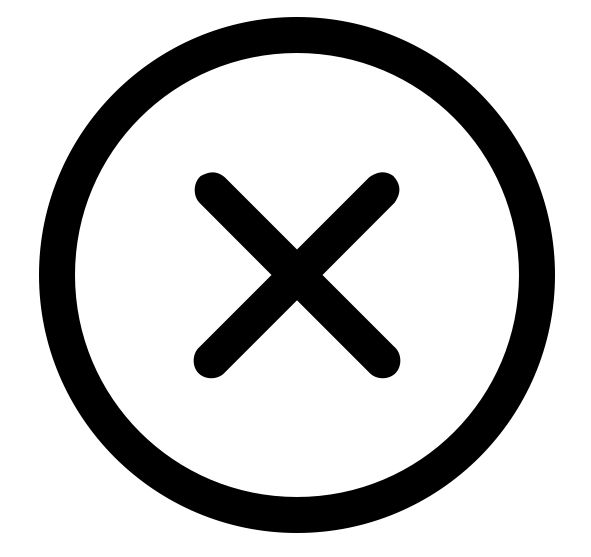
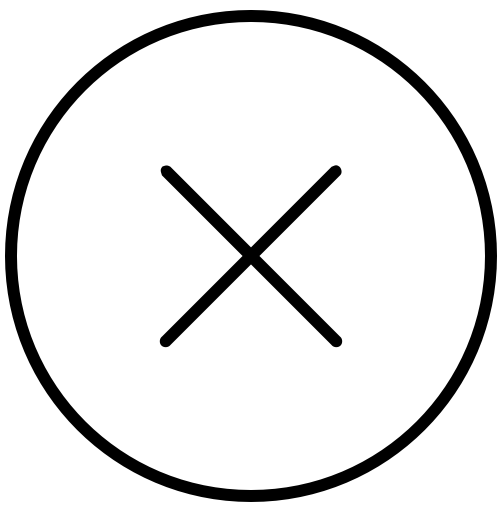
Completed more styling on MovieInfo page.  Started styling commments.  Removed console logs and old comments.

Changed region(s): [[0.0, 0.0, 1.0, 1.0], [0.2982, 0.2947, 0.6859, 0.6778]]

diff --git a/dev/scripts/MovieInfo.js b/dev/scripts/MovieInfo.js
@@ -52,31 +52,40 @@ class MovieInfo extends React.Component {
                         <img src={`https://image.tmdb.org/t/p/w400/${this.state.poster_path}`} alt="poster"/>
                     </div>
                     <div className="movieInfoData">
-                        <h2>Title: {this.state.title}</h2>
-                        <h2>Release Date: {this.state.release_date}</h2>
+                        <h2>{this.state.title}</h2>
+                        <h4>Release Date: {this.state.release_date}</h4>
                         <div className="clearfix">
-                            <Link to={{
-                                pathname: '/Recommend',
-                                state: { name: this.state.id, }}                  
-                                }
-                                className="mightAlsoLike">
-                            Might also like
-                            </Link>
-                            <Addbutton user={this.state.user} movie={this.state.title} />
+                            <div className="movieinfo__addbuttondiv clearfix">
+                                <Addbutton user={this.state.user} movie={this.state.title} />
+                            </div>
+                            <div className="movieinfo__descriptiondiv">
+                                <p>{this.state.overview}</p>
+                            </div>
+                                <p className="movieinfo__genrestitle">Genres:</p> 
+                                <ul className="movieinfo__genreslist">
+                                    {this.state.genres.map( (data, i) => 
+                                    {
+                                        return (<li className="genres" key={i}> {data.name} </li>)}
+                                    )}
+                                </ul>
+                            <div className="movieinfo__mightalsolikediv clearfix">
+                                <Link to={{
+                                    pathname: '/Recommend',
+                                    state: { name: this.state.id, }
+                                    }
+                                    }
+                                    className="mightAlsoLikeButton">
+                                    MORE LIKE THIS...
+                                </Link>
+                            </div>
                         </div>
                     </div>
                 </div>
-                <div>
-                    <p>Description: {this.state.overview}</p>
+                <div className="comments">
+                    <Comments 
+                    movieID={this.state.id}
+                    username={this.state.username} />
                 </div>
-
-                <p>Genres: {this.state.genres.map( (data, i) => 
-                    {
-                    return (<span className="genres" key={i}> {data.name} </span>)}
-                    )} </p>
-                <Comments 
-                movieID={this.state.id}
-                username={this.state.username} />
             </div>
         )
     }

diff --git a/dev/scripts/Comments.js b/dev/scripts/Comments.js
@@ -2,7 +2,6 @@ import React from 'react';
 import ReactDOM from 'react-dom';
 import Comment from './Comment';
 
-
 class Comments extends React.Component {
 
     constructor() {
@@ -22,7 +21,6 @@ class Comments extends React.Component {
         });
     }
 
-    // Use this as a listener, because component did mount will render before props are received
     componentWillReceiveProps(props) {
         const dbref = firebase.database().ref(`${props.movieID}/comments`);
 
@@ -30,7 +28,6 @@ class Comments extends React.Component {
 
             dbref.on('value', (snapshot) => {
                 const data = snapshot.val();
-                console.log(data);
                 const state = [];
                 for (let key in data) {
                     data[key].key = key;
@@ -45,7 +42,6 @@ class Comments extends React.Component {
 
     addComment(e) {
         e.preventDefault();
-        // This is making an array from whatever we pass it
         const aComment = {
             name: this.state.comment
         };
@@ -62,17 +58,16 @@ class Comments extends React.Component {
 
     render() {
         return (
-            <div>
+            <div className="comments__fullsection">
                 <div className="comments__form">
-                    <h1>Leave a comment</h1>
+                    <h2>What users are saying...</h2>
                     <form onSubmit={this.addComment}>
-                        <input type="text" id="comment" value={this.state.comment} onChange={this.handleChange} />
-                        <input type="submit" value="Add Comment"/>
+                        <input className="comment_field" type="text" id="comment" value={this.state.comment} onChange={this.handleChange} placeholder="Add public comment..."/>
+                        <input className="comment_button" type="submit" value="SUBMIT"/>
                     </form>
                 </div>
-                {/* <p>Testing ID: {this.props.movieID}</p> */}
                 <div className="comments__div">
-                    <h3>Previous Comments</h3>
+                    {/* <h3>Comments:</h3> */}
                     {this.state.comments.map((comment) => {
                         return (
                             <Comment data={comment} key={comment.key} remove={this.removeComment} aCommentIndex={comment.key} />

diff --git a/dev/styles/components/_movieInfo.scss b/dev/styles/components/_movieInfo.scss
@@ -1,11 +1,10 @@
-// .movieInfoContainer {
-//     padding: 5%;
-//     padding-top: 0;
-// }
-
 .movieInfo {
-    padding-top: 10px;
-    padding: 5%
+    padding-top: 90px;
+}
+
+.movieInfoPoster {
+    margin: 0 auto;
+    width: 80%;
 }
 
 .movieInfoPoster img {
@@ -13,40 +12,55 @@
     width: 100%
 }
 
-.movieInfoPoster {
-    width: 100%;
-}
-.movieInfoData {
-    width: 100%;
-}
-
-.mightAlsoLike,
-.addToListButton {
-    width: 50%;
-    float: left
-}
-
-.mightAlsoLike {
-    border: 2px solid #F72A75;
-    border-right: 1px solid #F72A75;
+.mightAlsoLikeButton {
+    background-color: $color1;
+    border: 2px solid $color5;
     border-radius: 4px;
-    padding-top: calc((39px - 22px) / 2);
-    padding-bottom: calc((39px - 22px)/ 2);
+    color: #FFF;
+    display: block;
+    float: left;
+    margin-top: 30px;
+    padding: 15px;
     text-align: center;
-    color: white;
-    background-color: #00053C;
+    width: 80%;
+}
+
+.mightAlsoLikeButton:hover {
+    color: $color5;
+}
+
+
+.movieInfoData {
+    margin: 0 auto;
+    width: 80%;
+}
+
+.movieinfo__genreslist {
+    margin: 0;
+    padding: 0;
+}
+
+.movieinfo__genrestitle {
+    font-weight: 500;
+    margin-top: 20px;
 }
 
 .genres {
-    background: black;
+    background: rgb(146, 146, 146);
+    border-radius: 2px;
     color: white;
+    margin: 5px;
     padding: 4px;
-    margin-right: 1px;
-    border-radius: 4px;
+    text-align: center;
+    width: 50%;
 }
 
+.comments {
+    margin: 0 auto;
+    padding-top: 30px;
+    width: 80%;
+}
 
-//this applies from 480px onwards
 @media (min-width: 480px) {
     .movieInfoPoster{
         width: 40%;

diff --git a/dev/scripts/Comment.js b/dev/scripts/Comment.js
@@ -7,7 +7,11 @@ class Comment extends React.Component {
         return (
             <div className="movieinfo__commentdiv">
                 <h5 className="movieinfo__commentdiv__comment">{this.props.data.name}</h5>
-                <button onClick={() => this.props.remove(this.props.aCommentIndex)}><div className="movieinfo__commentdiv__removebutton">x</div></button>
+                <button onClick={() => this.props.remove(this.props.aCommentIndex)}>
+                <div className="movieinfo__commentdiv__removebutton">
+                    <img src="/dev/images/icon_remove.png" alt="" />
+                </div>
+                </button>
             </div>
         );
     }

diff --git a/dev/styles/components/_searchResultsGenre.scss b/dev/styles/components/_searchResultsGenre.scss
@@ -2,11 +2,6 @@ body {
     background-color: $color6;
 }
 
-// button {
-//     padding: 0;
-//     border: none;
-// }
-
 .searchResults {
     max-width: 320px;
     // padding: 5%;
@@ -47,17 +42,17 @@ a {
 .addToListButton {
     // padding-top: 5px;
     // padding-bottom: 5px;
-    display: block;
-    width: 50%;
-    float: left;
-    font-size: 1rem;
-    text-align: center;
     background-color: $color1;
     border: 2px solid $color5;
     border-radius: 4px;
     color: #FFF;
-    padding: 15px;
+    display: block;
+    float: left;
     margin-top: 5px;
+    padding: 15px;
+    text-align: center;
+    width: 50%;
+    // font-size: 1rem;
 }
 
 .moreInfoButton:hover,

diff --git a/dev/styles/components/_comments.scss b/dev/styles/components/_comments.scss
@@ -1,0 +1,28 @@
+.comments__fullsection {
+    border-top: 0.25px solid rgb(116, 115, 115);
+    margin-top: 20px;
+    padding-top: 20px;
+}
+
+.comment_field {
+    background: none;
+    border: none;
+    border-bottom: 2px solid $color1;
+    font-family: $body-font;
+    margin-bottom: 15px;
+    outline: none;
+    padding: 5px;
+    width: 90%;
+}
+
+.comment_button {
+    background: $color5;
+    border: 1px solid $color5;
+    border-radius: 5px;
+    color: white;
+    padding: 5px;
+}
+
+.movieinfo__commentdiv__removebutton {
+    background: none;
+}

diff --git a/dev/styles/styles.scss b/dev/styles/styles.scss
@@ -6,5 +6,6 @@
 @import "components/searchResultsGenre";
 @import "components/movieInfo";
 @import "components/listitem";
+@import "components/comments";
 
 
